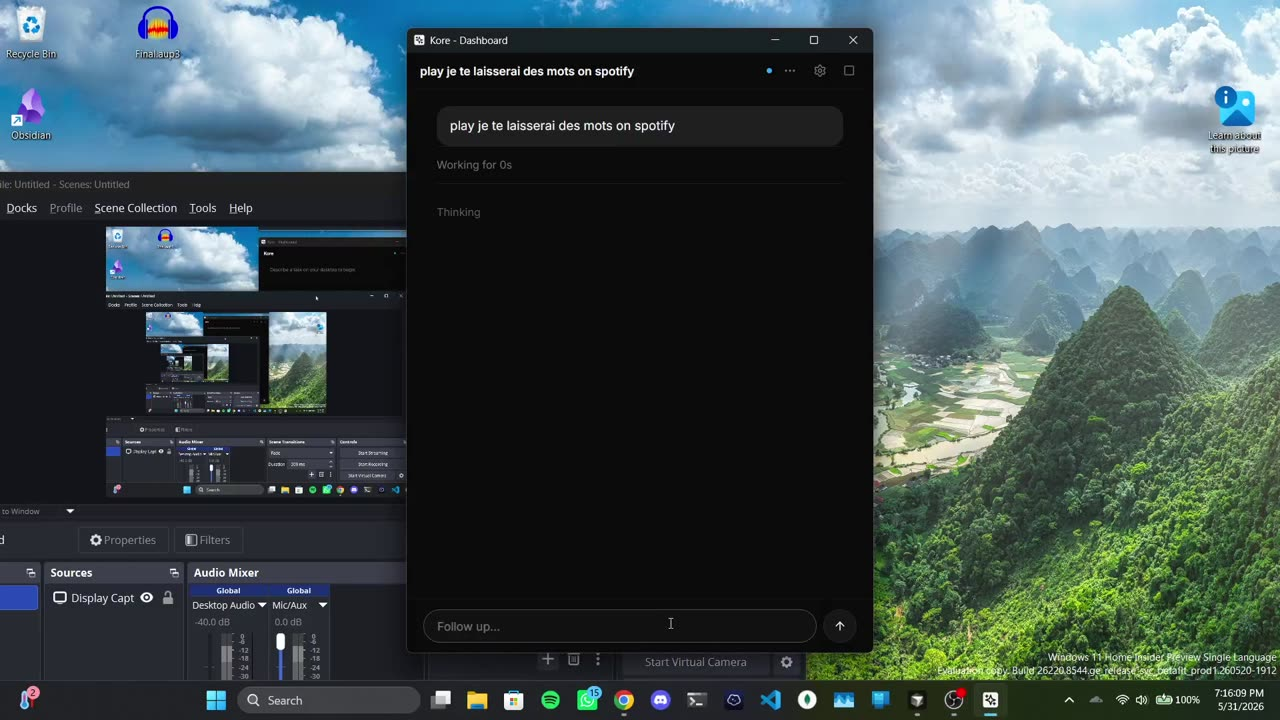
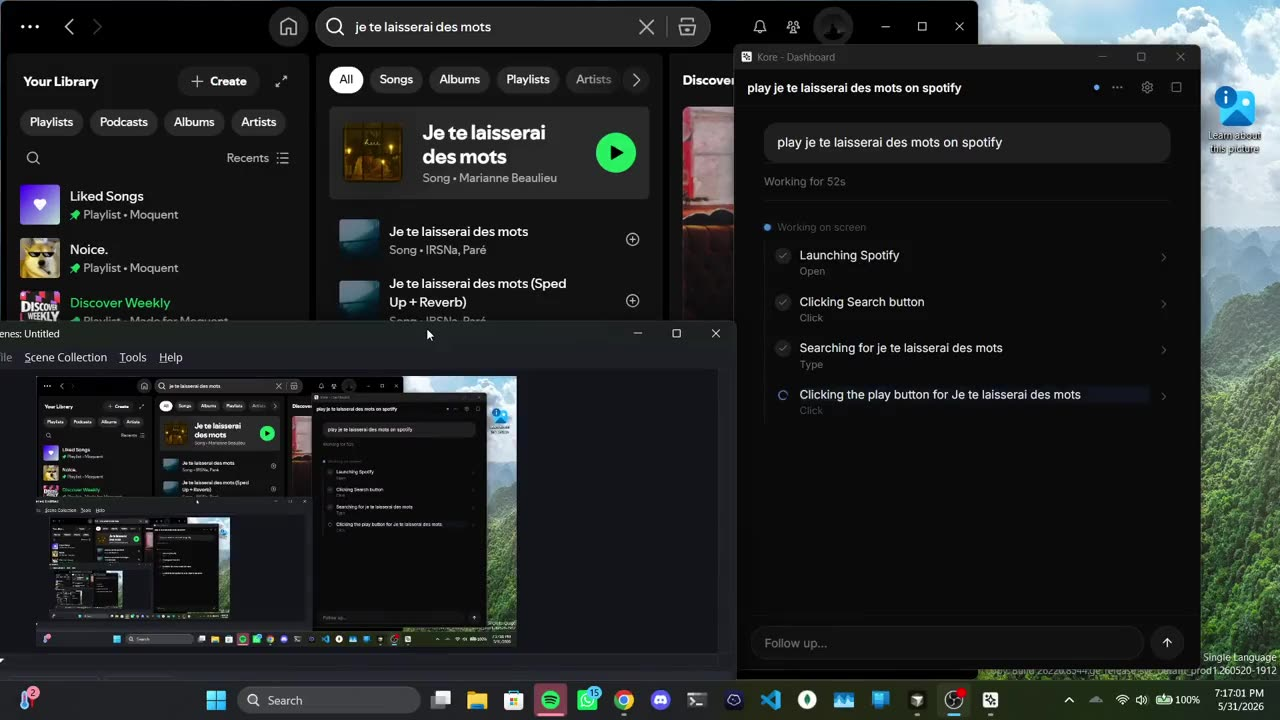
Kore post: describe demo clips, better posters

diff --git a/src/content/posts/kore-computer-use-agent-that-fails-closed.md b/src/content/posts/kore-computer-use-agent-that-fails-closed.md
@@ -20,17 +20,27 @@ Kore is a Windows computer-use agent built on a different premise: perceive the 
 
 ## Demos
 
+The clips are unedited screen recordings, with Kore's step log in the right-hand panel.
+
+### Cold run, then learned replay
+
 <video controls preload="metadata" poster="/videos/kore-spotify.jpg" width="100%"><source src="/videos/kore-spotify.mp4" type="video/mp4"></video>
 
-_"Play je te laisserai des mots on Spotify."_
+Two tasks back to back. The first ("play je te laisserai des mots on spotify") is a cold run: open Spotify, type the query, click the result. Kore's first play click is flagged ✗ in the log. It retries, and only then reports "Task complete".
+
+The second ("play the night we met on spotify") starts with steps tagged **PROCEDURE**: _Focused app for procedure_, _Focused app_, _Entered query_. That is the procedure learned from the first task, replayed with a new `{query}` slot. Picking which result to play is not tagged as procedure, so that last step is still decided live.
+
+### Another app, same loop
 
 <video controls preload="metadata" poster="/videos/kore-flights.jpg" width="100%"><source src="/videos/kore-flights.mp4" type="video/mp4"></video>
 
-_"Show me the cheapest flights from ATL to BLR on August 8."_
+_"Show me the cheapest flights from ATL to BLR on August 8."_ Kore opens Chrome, searches Google, clicks the Flights tab, then the Cheapest tab, and lands on the $904 round trip (Aug 8 to Aug 12, the dates Google Flights defaulted to). It also leaves the page's "Travel restricted" banner on screen for the user to see.
+
+### Background mode
 
 <video controls preload="metadata" poster="/videos/kore-background.jpg" width="100%"><source src="/videos/kore-background.mp4" type="video/mp4"></video>
 
-_Background mode: Kore acts on a bound window while I keep using the machine._
+Same Spotify task with _Bound automation_ on in settings, which drives the target app in the background through native UIA and acts on the bound window only. Kore launches Spotify, clicks Search, types the query, and clicks play while the OBS window I'm recording with stays in front of it.
 
 ## How it differs
 
